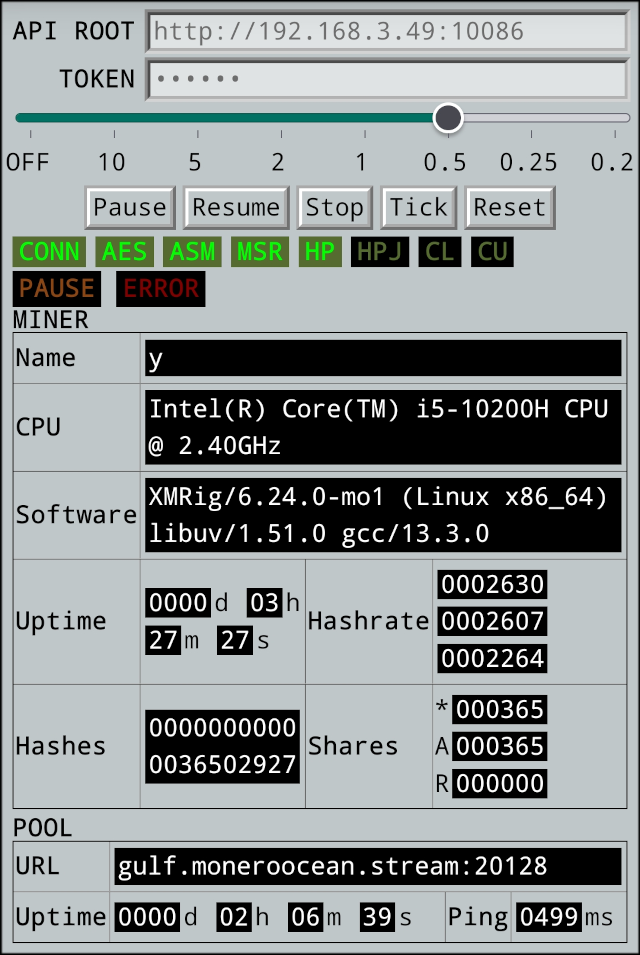
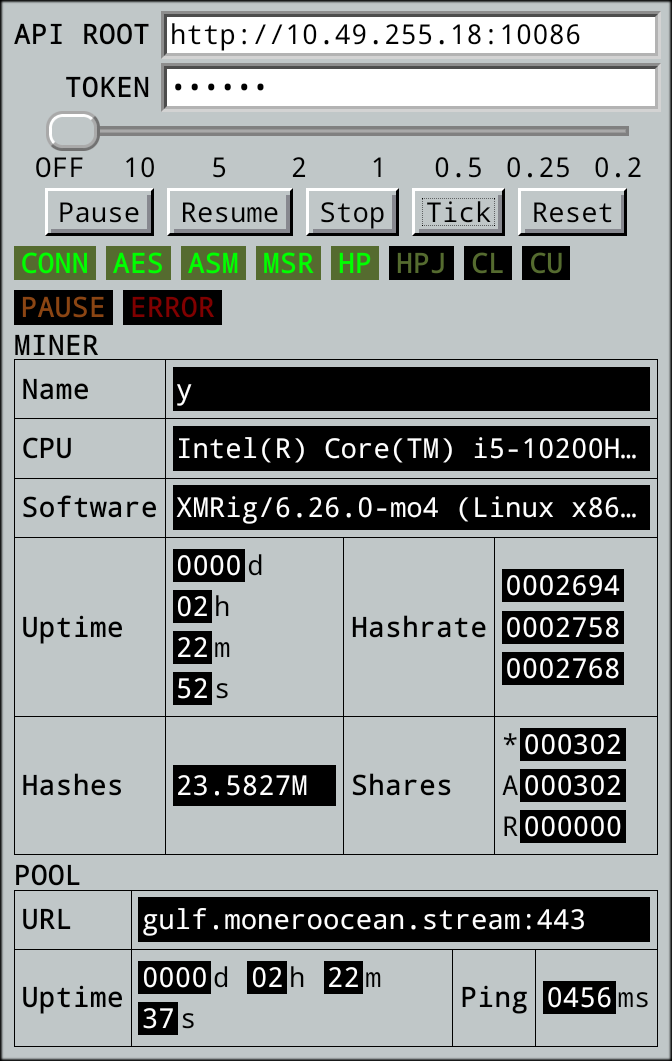
enhance mobile compatibility; update screenshots

diff --git a/xmrigconsole.html b/xmrigconsole.html
@@ -474,7 +474,9 @@
 			"6": 0.25,
 			"7": 0.2
 		};
-
+		let styles = null;
+		let flexRule = null;
+		let compat = false;
 		let pollIntervalSec = 0; // 0 = OFF
 		let pollIntervalId = null;
 		let tickOngoing = false;
@@ -501,6 +503,57 @@
 			if (s) parts[3] = s;
 
 			return parts;
+		}
+
+		/**
+		 * Formats a number into compact representation with SI suffixes.
+		 * @param {number} n - The number to format.
+		 * @returns {string} The formatted number in string.
+		 */
+		function compatNumber(n) {
+			if (typeof n !== "number" || !isFinite(n)) return String(n);
+			if (n === 0) return "0";
+
+			const sign = n < 0 ? "-" : "";
+			n = Math.abs(n);
+
+			const suffixes = ["", "K", "M", "G", "T", "P", "E", "Z", "Y"];
+			let tier = 0;
+			let scaled = n;
+
+			while (scaled >= 1000 && tier < suffixes.length - 1) {
+				scaled /= 1000;
+				tier++;
+			}
+
+			const suffix = suffixes[tier];
+			const maxLen = 8 - suffix.length - (sign ? 1 : 0); // room left for the numeric part
+
+			// Integer part
+			const intPart = Math.floor(scaled);
+			const intStr = String(intPart);
+			const intDigits = intStr.length;
+
+			// How many decimal places we can still fit
+			let decimals = maxLen - intDigits - 1; // -1 for the "."
+			if (decimals < 0) decimals = 0;
+
+			let numStr;
+			if (decimals === 0) {
+				numStr = intStr;
+			} else {
+				// Truncate (not round) to the allowed decimal places
+				const factor = Math.pow(10, decimals);
+				const truncated = Math.floor(scaled * factor) / factor;
+				numStr = truncated.toString();
+				// Guard against floating-point producing a longer string
+				if (numStr.length > maxLen) {
+					numStr = truncated.toFixed(decimals).replace(/\.?0+$/, ""); // trim trailing zeros
+					if (numStr.length > maxLen) numStr = numStr.slice(0, maxLen);
+				}
+			}
+
+			return sign + numStr + suffix;
 		}
 
 		/**
@@ -626,7 +679,7 @@
 			dispMinerHashrate1m.textContent = Math.round(summary.hashrate.total[1]).toString().padStart(7, "0");
 			dispMinerHashrate15m.textContent = Math.round(summary.hashrate.total[2]).toString().padStart(7, "0");
 
-			dispMinerTotalHashes.textContent = summary.results.hashes_total.toString().padStart(19, "0");
+			dispMinerTotalHashes.textContent = compat ? compatNumber(summary.results.hashes_total) : summary.results.hashes_total.toString().padStart(19, "0");
 
 			dispMinerSharesTotal.textContent = summary.results.shares_total.toString().padStart(6, "0");
 			dispMinerSharesAccepted.textContent = summary.results.shares_good.toString().padStart(6, "0");
@@ -799,7 +852,7 @@
 			dispMinerHashrate10s.textContent = "0000000";
 			dispMinerHashrate1m.textContent = "0000000";
 			dispMinerHashrate15m.textContent = "0000000";
-			dispMinerTotalHashes.textContent = "0000000000000000000";
+			dispMinerTotalHashes.textContent = compat ? "0" : "0000000000000000000";
 			dispMinerSharesTotal.textContent = "000000";
 			dispMinerSharesAccepted.textContent = "000000";
 			dispMinerSharesRejected.textContent = "000000";
@@ -817,6 +870,7 @@
 		 */
 		function zoom() {
 			if (paramNoZoom) {
+				app.style.width = "640px";
 				return;
 			}
 
@@ -824,13 +878,19 @@
 			const wh = window.innerHeight;
 			const aw = app.offsetWidth;
 			const ah = app.offsetHeight;
-			if (ww <= aw || wh <= ah) {
+			if (ww < 640) {
+				compat = true;
+				flexRule.flexDirection = "column";
 				app.style.transform = "scale(1)";
+				if (dispMinerTotalHashes.textContent.length > 8)
+					dispMinerTotalHashes.textContent = compatNumber(parseInt(dispMinerTotalHashes.textContent));
 				return;
 			}
+			compat = false;
+			flexRule.flexDirection = "row";
 			const scaleW = ww / aw;
 			const scaleH = wh / ah;
-			const scale = Math.min(scaleW, scaleH);
+			const scale = Math.max(1, Math.min(scaleW, scaleH));
 			app.style.transform = "scale(" + scale.toString() + ")";
 		}
 
@@ -841,6 +901,14 @@
 		function main() {
 			console.log("Initializing");
 			reset();
+
+			styles = document.styleSheets[0];
+			for (const rule of styles.cssRules) {
+				if (rule.selectorText === ".flex-justify") {
+					flexRule = rule.style;
+					break;
+				}
+			}
 
 			// Register zooming
 			zoom();
